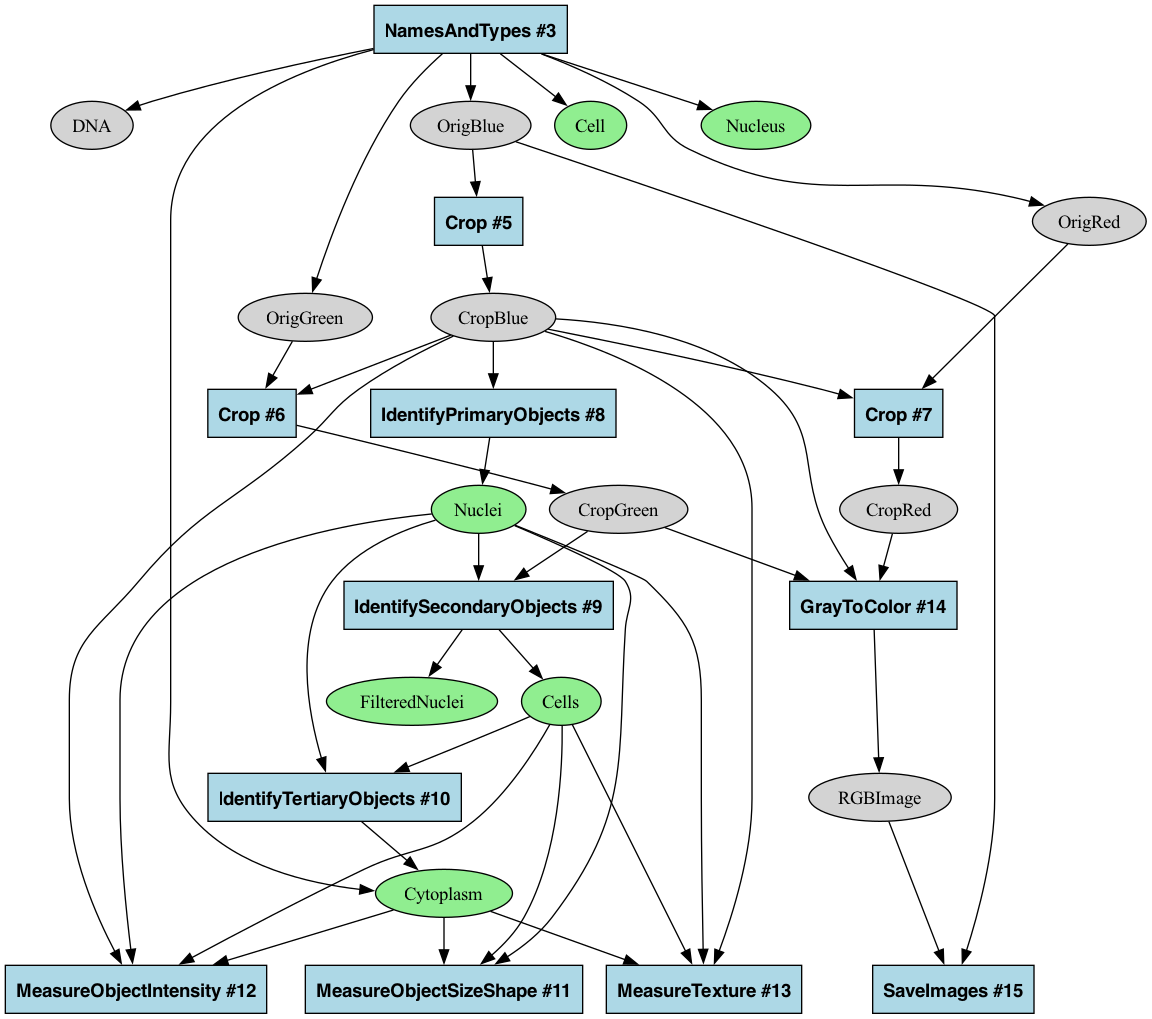
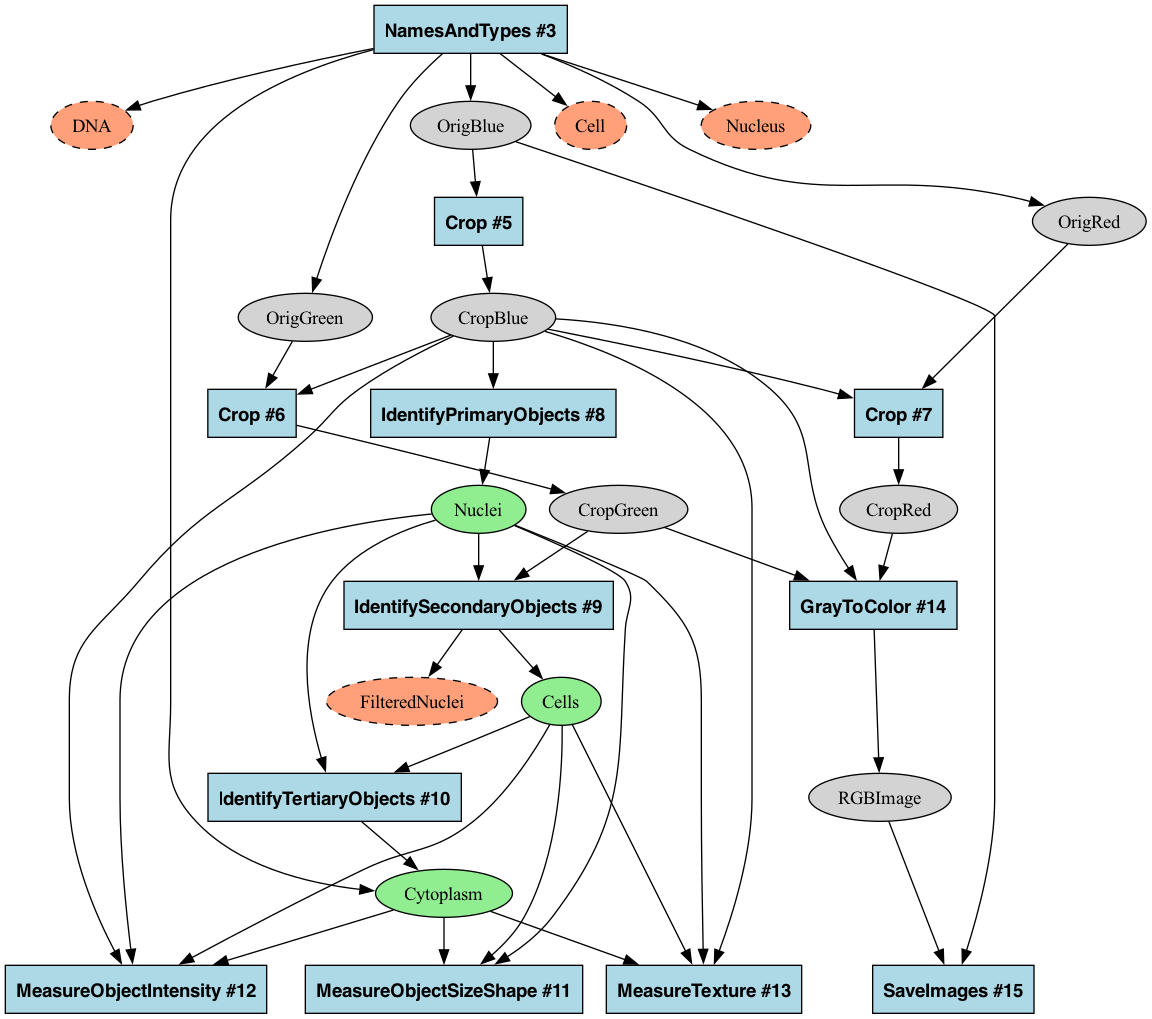
Add filter objects

diff --git a/cp_graph.py b/cp_graph.py
@@ -1038,7 +1038,7 @@ def filter_exclude_module_types(
 
 
 def filter_remove_unused_data(
-    G: nx.DiGraph, highlight_filtered: bool = False
+    G: nx.DiGraph, highlight_filtered: bool = False, filter_objects: bool = False
 ) -> Tuple[nx.DiGraph, int]:
     """
     Filter graph to remove image nodes that are not inputs to any module.
@@ -1048,6 +1048,7 @@ def filter_remove_unused_data(
     Args:
         G: The original NetworkX graph
         highlight_filtered: If True, mark filtered nodes instead of removing them
+        filter_objects: If true, also mark/filter objects
 
     Returns:
         A tuple of (filtered graph, number of nodes affected)
@@ -1060,6 +1061,7 @@ def filter_remove_unused_data(
         node
         for node, attrs in G.nodes(data=True)
         if attrs.get("type") == NODE_TYPE_IMAGE
+        or (filter_objects and attrs.get("type") == NODE_TYPE_OBJECT)
     ]
 
     # Check which ones are unused (not inputs to any module)
@@ -1094,6 +1096,7 @@ def apply_graph_filters(
     exclude_module_types: Optional[List[str]] = None,
     highlight_filtered: bool = False,
     quiet: bool = False,
+    filter_objects: bool = False,
 ) -> nx.DiGraph:
     """
     Apply multiple graph filters based on specified parameters.
@@ -1105,6 +1108,7 @@ def apply_graph_filters(
         exclude_module_types: Optional list of module type names to exclude
         highlight_filtered: Whether to highlight filtered nodes instead of removing them
         quiet: Whether to suppress filter information output
+        filter_objects: Whether to supress objects along with images
 
     Returns:
         A filtered NetworkX DiGraph
@@ -1143,7 +1147,7 @@ def apply_graph_filters(
         if not quiet:
             print(f"{action_verb} unused image nodes")
         filtered_graph, nodes_affected = filter_remove_unused_data(
-            filtered_graph, highlight_filtered
+            filtered_graph, highlight_filtered, filter_objects
         )
         total_affected += nodes_affected
         if not quiet and nodes_affected > 0:
@@ -1194,6 +1198,7 @@ def process_pipeline(
     exclude_module_types: Optional[List[str]] = None,
     rank_nodes: bool = False,
     rank_ignore_filtered: bool = False,
+    filter_objects: bool = False,
 ) -> GraphData:
     """
     Process a CellProfiler pipeline and create a dependency graph.
@@ -1216,6 +1221,7 @@ def process_pipeline(
         exclude_module_types: Optional list of module type names to exclude from the graph
         rank_nodes: Whether to add rank statements for positioning source and sink nodes
         rank_ignore_filtered: Whether to ignore filtered nodes when calculating ranks
+        filter_objects: Whether to include objects for filtering along with images
 
     Returns:
         A tuple of (graph, modules_info) where:
@@ -1243,6 +1249,7 @@ def process_pipeline(
         exclude_module_types=exclude_module_types,
         highlight_filtered=highlight_filtered,
         quiet=quiet,
+        filter_objects=filter_objects,
     )
 
     # Print information about the pipeline if not quiet
@@ -1330,6 +1337,11 @@ def process_pipeline(
     "--exclude-module-types",
     help="Comma-separated list of module types to exclude (e.g., ExportToSpreadsheet)",
 )
+@click.option(
+    "--filter-objects",
+    is_flag=True,
+    help="Filter unused objects along with images"
+)
 # Output options
 @click.option("--quiet", "-q", is_flag=True, help="Suppress informational output")
 def cli(
@@ -1346,6 +1358,7 @@ def cli(
     remove_unused_data: bool,
     highlight_filtered: bool,
     exclude_module_types: Optional[str],
+    filter_objects: bool,
     quiet: bool,
 ) -> None:
     """
@@ -1397,6 +1410,10 @@ def cli(
     \b
     # Position source and sink nodes while ignoring filtered nodes
     python cp_graph.py examples/illum.json examples/output/illum_clean_ranked.dot --root-nodes=OrigDNA --highlight-filtered --rank-nodes --rank-ignore-filtered
+    
+    \b
+    # Exclude unused and objects
+    python cp_graph.py --remove-unused-data --highlight-filtered --rank-nodes --filter-objects examples/ExampleFly.json examples/output/ExampleFly.dot
     """
     # Process root nodes if provided
     root_node_list = None
@@ -1429,6 +1446,7 @@ def cli(
             exclude_module_types=exclude_module_types_list,
             rank_nodes=rank_nodes,
             rank_ignore_filtered=rank_ignore_filtered,
+            filter_objects=filter_objects,
         )
     except click.ClickException as e:
         e.show()
